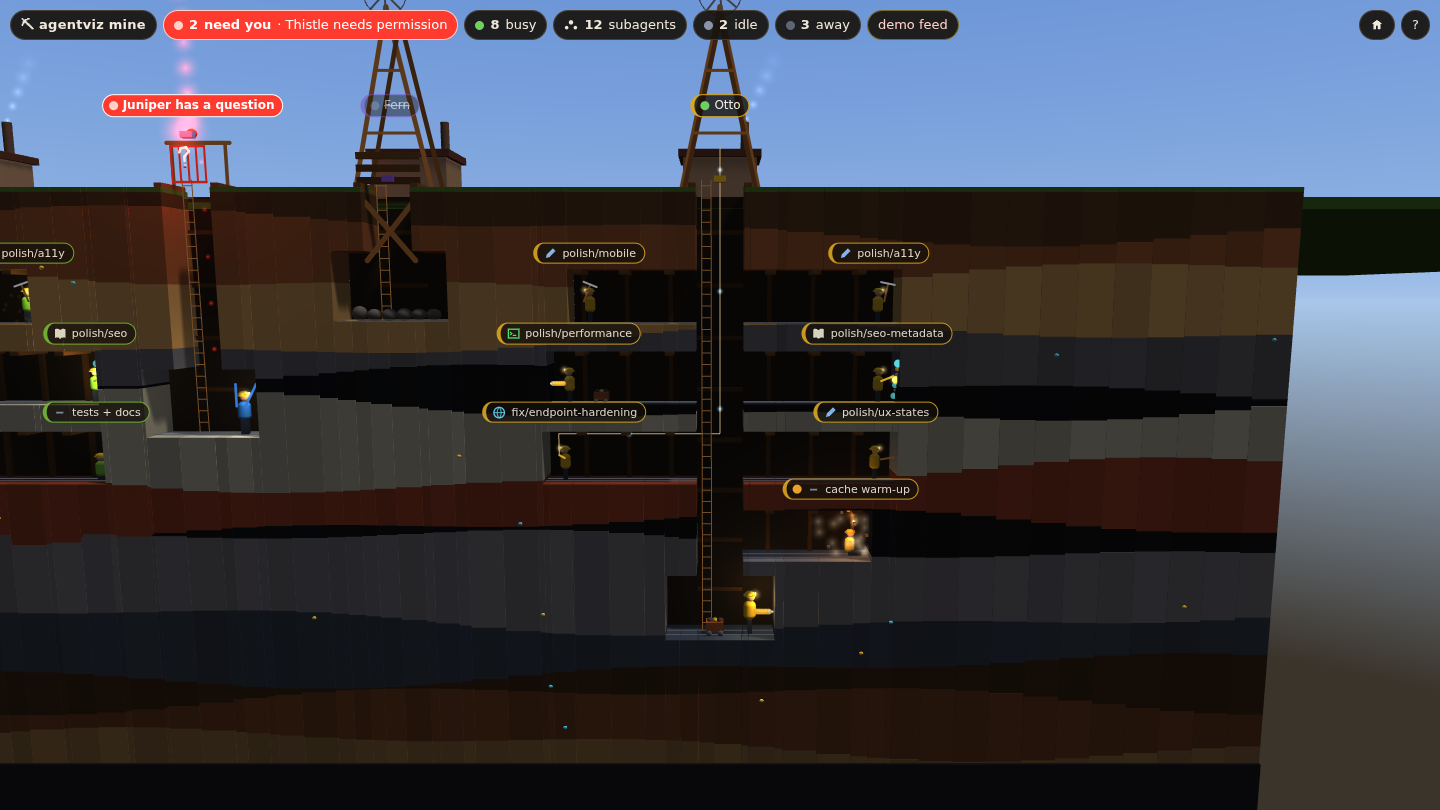
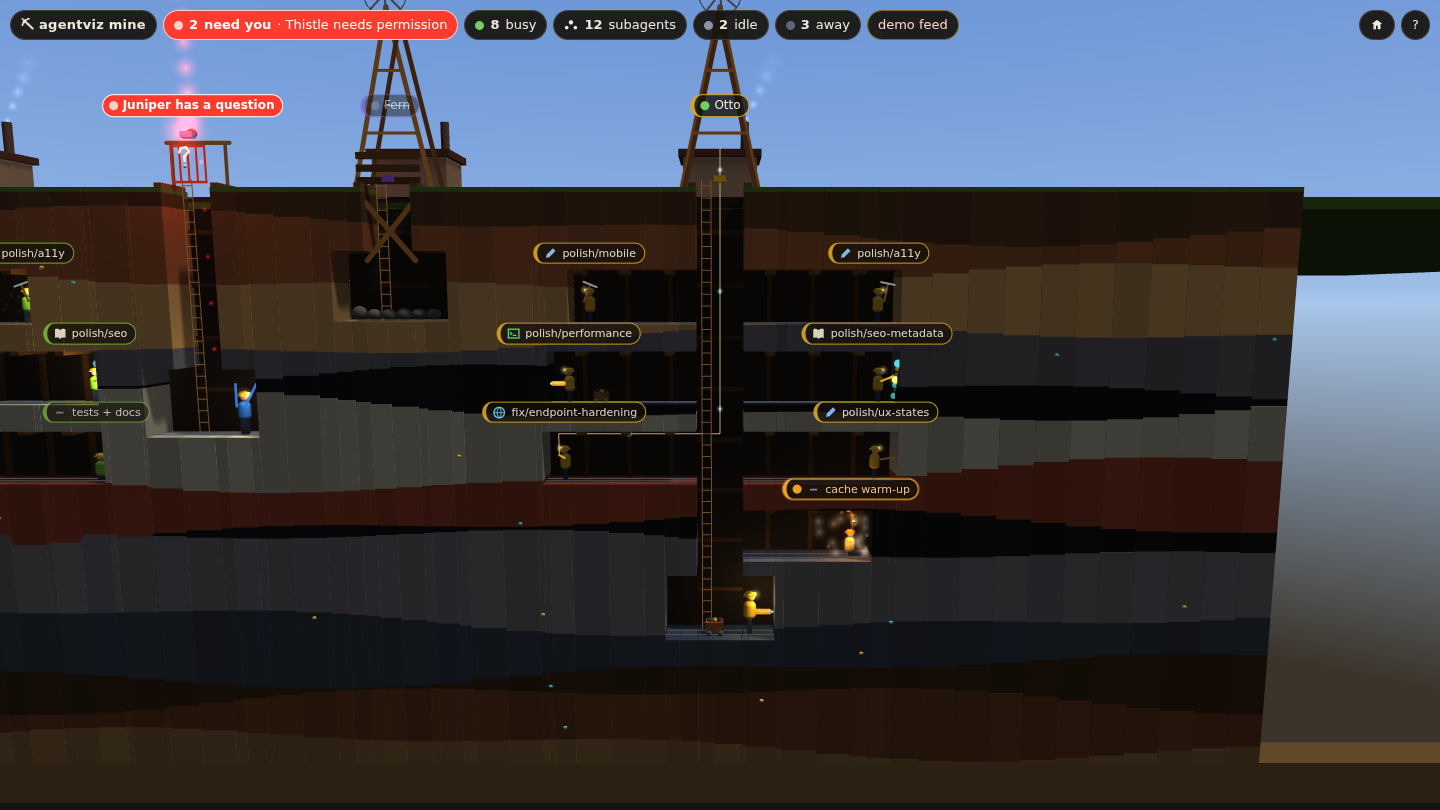
Polish the mine: one-row phone bar, tap clears the sheet, labels by state
Claude-Session: https://claude.ai/code/session_01LYNeukFY6qMGdbKQJnTwr8

Changed region(s): [[0.0, 0.8951, 1.0, 1.0], [0.5312, 0.5864, 0.6562, 0.6173]]

diff --git a/web/page.js b/web/page.js
@@ -33,7 +33,11 @@
     // A wide mine leaves height to spare: keep the deepest face near the bottom
     // edge and give the spare to the sky, not to bare bedrock.
     const ty = Math.max((6 + w.bottom) / 2, w.bottom - 1.5 + dist * FOV_HALF_TAN * 0.92);
-    return {tx: (w.minX + w.maxX) / 2, ty: Math.min(ty, 4), tz: 0, dist, yaw: HALF_PI, pitch: PITCH};
+    // With height to spare, look down a little more: the land behind the cut
+    // fills the upper part of the view instead of bare sky.
+    const spare = dist * FOV_HALF_TAN * 2 - height;
+    const lift = Math.min(0.2, Math.max(0, spare / dist) * 0.5);
+    return {tx: (w.minX + w.maxX) / 2, ty: Math.min(ty, 4), tz: 0, dist, yaw: HALF_PI, pitch: PITCH + lift};
   }
   function flyTo(to, instant) {
     if (instant || !kit || kit.driven) { Object.assign(cam, to); camAnim = null; return; }
@@ -59,12 +63,15 @@
   /* ------------------------------------------------------------ labels */
   function edge(el, colour) { if (el.style.borderColor !== colour) el.style.borderColor = colour; }
 
+  // A label's state at a glance: "needs you" is solid red, a stall gets an
+  // amber edge, idle and offline sessions recede so the busy ones stand out.
   function sessionLabel(e) {
     const s = e.data, waiting = s.state === "waiting";
-    const cls = "lead" + (waiting ? " waiting" : s.state === "offline" ? " offline" : "");
+    const cls = "lead" + (waiting ? " waiting" : s.stalled ? " stalled" : s.state === "offline" ? " offline"
+      : s.state === "busy" ? "" : " quiet");
     const text = waiting ? (s.name || s.id) + " " + (REASON[s.waitingReason] || "needs you") : s.name || s.id.slice(0, 6);
     const el = labels.set("s:" + e.id, {cls, state: s.stalled ? "stalled" : s.state, text});
-    edge(el, waiting ? "" : shirtOf(s.seed));
+    edge(el, waiting || s.stalled ? "" : shirtOf(s.seed));
     return {el, q: kit.project(e.cur.x, 2.5, 0.2), rank: waiting || e.id === selectedId ? 0 : 2};
   }
 
@@ -74,9 +81,9 @@
     const family = sel && (sel === f || sel === f.parent || sel.parent === f.parent);
     if (!family && cam.dist > FOLLOWER_LABELS_WITHIN) return null;
     const d = f.data, resting = d.state !== "active";
-    const el = labels.set("f:" + f.id, {cls: "sub", state: d.stalled ? "stalled" : null,
-      action: resting ? "none" : d.action, text: d.label || "subagent"});
-    edge(el, shirtOf(f.session.seed));
+    const el = labels.set("f:" + f.id, {cls: "sub" + (d.stalled ? " stalled" : resting ? " quiet" : ""),
+      state: d.stalled ? "stalled" : null, action: resting ? "none" : d.action, text: d.label || "subagent"});
+    edge(el, d.stalled ? "" : shirtOf(f.session.seed));
     const p = mine.followerPos(f);
     return {el, q: kit.project(p.x, p.y + 2.0, 0.2), rank: family ? 1 : 4};
   }
@@ -94,7 +101,34 @@
       if (item) items.push(item);
     }
     labels.end();
+    clearOfHud(items);
     StrataKit.placeLabels(items);
+  }
+
+  // World labels never sit under the top bar: a "needs you" label slides down
+  // below it, any other label hides until the camera moves it clear.
+  let hudRects = [], hudRectsAt = -1e9;
+  function clearOfHud(items) {
+    const now = performance.now();
+    if (now - hudRectsAt > 300) {
+      hudRectsAt = now;
+      hudRects = [];
+      const bar = document.querySelector(".av-bar");
+      for (const c of bar ? bar.children : []) {
+        const r = c.getBoundingClientRect();
+        if (r.width > 0 && !c.classList.contains("av-spacer")) hudRects.push(r);
+      }
+    }
+    const low = hudRects.reduce((m, r) => Math.max(m, r.bottom), 0) + 60;
+    for (const it of items) {
+      if (!it.q || it.q.y > low) continue;
+      const w = it.el.offsetWidth || 80, h = it.el.offsetHeight || 20, x0 = it.q.x - w / 2, x1 = it.q.x + w / 2;
+      for (const r of hudRects) {
+        if (x1 < r.left - 4 || x0 > r.right + 4 || it.q.y - h > r.bottom + 4) continue;
+        it.q = it.rank <= 0 ? {x: it.q.x, y: r.bottom + 6 + h, w: it.q.w} : null;
+        if (!it.q) break;
+      }
+    }
   }
 
   /* ------------------------------------------------------------ picking + selection */
@@ -120,7 +154,9 @@
     selectedId = idOf(target);
     const e = selectedId && mine.get(selectedId);
     if (kit) kit.selected = e || null;
-    if (e && (how === "waiting" || how === "list")) focusOn(e);
+    // On a phone a tap also lifts the subject above the bottom sheet, so the
+    // card never covers what was tapped.
+    if (e && (how === "waiting" || how === "list" || (how === "tap" && window.innerWidth <= 640))) focusOn(e);
   }
 
   const hud = AgentvizHud.create({

diff --git a/web/index.html b/web/index.html
@@ -20,6 +20,22 @@
   .av-label.waiting { background: var(--av-wait); border-color: #fff; color: #fff; font-weight: 700; border-left-width: 1px;
     animation: mine-throb 1.1s ease-in-out infinite; }
   .av-label.offline { opacity: 0.55; text-decoration: line-through; }
+  .av-label.quiet { opacity: 0.72; }
+  .av-label.stalled { border-color: var(--av-stall); color: #ffd79a; box-shadow: 0 0 0 1px rgba(255, 176, 46, 0.45); }
+  /* A phone keeps the top bar to one row: the title steps aside (the tab
+     names the page), the counts scroll sideways under the two buttons, which
+     stay put and get full-size touch targets. */
+  @media (max-width: 640px) {
+    .av-bar { flex-wrap: nowrap; overflow-x: auto; scrollbar-width: none; gap: 5px; padding: 8px; margin: -8px; }
+    .av-bar::-webkit-scrollbar { display: none; }
+    .av-bar > * { flex: none; }
+    .av-bar .av-title { display: none; }
+    .av-bar .av-spacer { flex: 1 0 4px; }
+    .av-spacer ~ button.av-chip { position: sticky; min-width: 40px; justify-content: center; z-index: 1;
+      background: rgb(24, 19, 15); }
+    .av-spacer ~ button.av-chip:last-child { right: 0; }
+    .av-spacer ~ button.av-chip:nth-last-child(2) { right: 45px; box-shadow: -12px 0 10px -2px rgba(13, 11, 9, 0.9); }
+  }
   .av-wait { animation-name: mine-throb; }
   @keyframes mine-throb { 0%, 100% { box-shadow: 0 0 0 0 rgba(255, 59, 47, 0.7); } 50% { box-shadow: 0 0 0 8px rgba(255, 59, 47, 0); } }
   .av-legend table { border-collapse: collapse; width: 100%; }
@@ -47,6 +63,7 @@
     <tr><td>🌫</td><td><b>stalled</b>: dust cloud, amber warning lamp (sessions and subagents)</td></tr>
     <tr><td>↔</td><td>Side tunnels = subagents; length = tool calls</td></tr>
     <tr><td>🏮</td><td>Resting subagent: tunnel lamp hung up, miner sitting</td></tr>
+    <tr><td>🏷</td><td>Labels: bright = busy, faded = idle or resting, amber edge = stalled</td></tr>
   </table>
 </aside>
 <script src="strata-loader.js"></script>

diff --git a/scene/earth.h b/scene/earth.h
@@ -118,6 +118,24 @@ inline std::vector<float> columnEdges(float left, float right, const std::vector
     return xs;
 }
 
+// Below the workings the bands carry on, one full-width block each, so a
+// framed view ends in rock rather than in a black slab.
+constexpr float kDeep = 22.0f;
+inline void drawDeepBands(Host& h, float left, float right, float bottom) {
+    float d = 0.0f, y = bottom;
+    for (int k = 0; k < 80 && y > bottom - kDeep; ++k) {
+        d += kBands[k % kBandCount].thick;
+        if (-d >= y) continue;
+        const float lo = std::max(-d, bottom - kDeep);
+        // The columns' own depth shading, then a fade into the dark below.
+        const float fade = (1.0f - 0.45f * std::clamp(-0.5f * (y + lo) / 24.0f, 0.0f, 1.0f)) *
+                           (1.0f - 0.5f * (bottom - lo) / kDeep);
+        h.add(STRATA_PRIMITIVE_CUBE, 0.5f * (left + right), 0.5f * (y + lo), 0.5f * (kBack + kFront), right - left, y - lo,
+              kFront - kBack, mul(kBands[k % kBandCount].c, fade));
+        y = lo;
+    }
+}
+
 inline void drawEarth(Host& h, const World& w, const std::vector<Cavity>& cavities) {
     const float left = w.minX - 10.0f, right = w.maxX + 10.0f, bottom = w.bottom - 3.0f;
     const std::vector<float> xs = columnEdges(left, right, cavities);
@@ -130,8 +148,10 @@ inline void drawEarth(Host& h, const World& w, const std::vector<Cavity>& caviti
     // The land behind the cut, and bedrock under it.
     h.add(STRATA_PRIMITIVE_CUBE, 0.5f * (left + right), -0.2f, kBack - 40.0f, (right - left) + 120.0f, 0.4f, 80.0f,
           {0.20f, 0.33f, 0.11f});
-    h.add(STRATA_PRIMITIVE_CUBE, 0.5f * (left + right), bottom - 30.0f, 0.5f * (kBack + kFront), right - left, 60.0f,
-          kFront - kBack + 0.2f, {0.07f, 0.07f, 0.08f});
+    // Wider than the columns, so their ends never show at the view's lower corners.
+    drawDeepBands(h, left - 60.0f, right + 60.0f, bottom);
+    h.add(STRATA_PRIMITIVE_CUBE, 0.5f * (left + right), bottom - kDeep - 30.0f, 0.5f * (kBack + kFront), right - left + 120.0f,
+          60.0f, kFront - kBack + 0.2f, {0.07f, 0.07f, 0.08f});
 }
 
 }  // namespace mine

diff --git a/README.md b/README.md
@@ -12,10 +12,13 @@ One of the [agentviz](https://github.com/dmccoystephenson/agentviz) family:
 ten views of the same feed.
 
 ![The whole mine: seven pitheads, fifteen shafts, two leads with their side tunnels](docs/media/hero.png)
-*The demo feed (fixture), from the front. Seven places (repos), fifteen
-sessions: two leads with 5 and 7 subagent tunnels, red pillars of light over
-Thistle's and Juniper's shafts (waiting on you), boarded-up shafts for the
-offline sessions. Busier places are sunk deeper.*
+*The demo feed (fixture), from the front and a little above, so the land
+runs back behind the cut and the strata carry on below the workings. Seven
+places (repos), fifteen sessions: two leads with 5 and 7 subagent tunnels,
+red pillars of light over Thistle's and Juniper's shafts (waiting on you),
+boarded-up shafts for the offline sessions. Busier places are sunk deeper;
+busy sessions' labels are bright, idle ones fade back, a stalled one (Patch)
+has an amber edge.*
 
 ![A five-second loop of the lead Wren's workings](docs/media/mine.gif)
 *Five seconds of motion: Wren's subagents swing picks, drive drills with ore
@@ -41,13 +44,16 @@ see the agentviz [SECURITY.md](https://github.com/dmccoystephenson/agentviz/blob
 Query options: `?fixture=1` (demo feed against a live server), `?fps=1`
 (frame stats), `?quality=0|1|2`.
 
-Tap or click a miner (or a shaft) for its card (a bottom sheet on a phone;
-swipe it down or tap the cross to close): name, state, action, what it is
+Tap or click a miner (or a shaft) for its card (a bottom sheet on a phone,
+where the view also slides the miner up above the sheet; swipe it down or
+tap the cross to close): name, state, action, what it is
 doing, branch, place, tool calls and its subagents; tap a subagent to fly to
 its tunnel, where its card shows its own branch. The red **need you** chip
 names who is waiting and why (a question, or a permission prompt), flies to
 that shaft and cycles through them; the house button shows the whole mine
-again; **?** opens the legend. If the feed stops answering, a banner says so
+again; **?** opens the legend. On a phone the top bar stays one row: the
+counts scroll sideways under the two buttons. Labels never hide under the
+bar: a "needs you" label slides down below it. If the feed stops answering, a banner says so
 and the last snapshot stays; with no sessions at all, a hint says how to
 start. Drag to orbit, right-drag or two fingers to pan, wheel or pinch to
 zoom.
@@ -74,6 +80,7 @@ zoom.
 | Planks nailed over the collar, boards crossed in the shaft, rubble, no miner | state `offline` | [idle-offline](docs/media/idle-offline.png) |
 | Dust churning round the face, pebbles falling, a blinking amber lamp | `stalled`: a session busy with nothing written for 5 minutes, or a subagent quiet that long without finishing | [stalled](docs/media/stalled.png), [stalled-subagent](docs/media/stalled-subagent.png) |
 | Tunnel still lit by a lamp hung on a prop, miner sitting | a **resting** subagent (quiet for 2 minutes) | [resting-subagent](docs/media/resting-subagent.png) |
+| A label with an amber edge; a faded label | that agent is stalled; that agent is idle or resting (busy ones stay bright) | [stalled](docs/media/stalled.png) |
 | Yellow corner brackets and a bobbing marker | the selected agent | [resting-subagent](docs/media/resting-subagent.png) |
 
 ## Screenshots
@@ -124,7 +131,7 @@ tunnel.*
 <img src="docs/media/phone.png" width="300" alt="Phone portrait with the bottom sheet open">
 
 *Phone portrait (390 × 844, DPR 3): Thistle selected, the card as a bottom
-sheet saying why it waits.*
+sheet saying why it waits, the top bar in one row.*
 
 ![The mine from above and to the right](docs/media/angle-high.png)
 *From above and to one side: the cut face is a slab, the land runs back to
